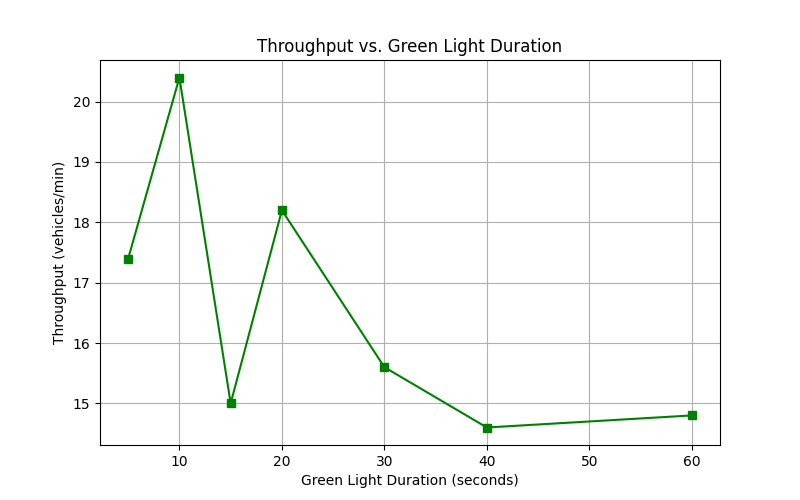
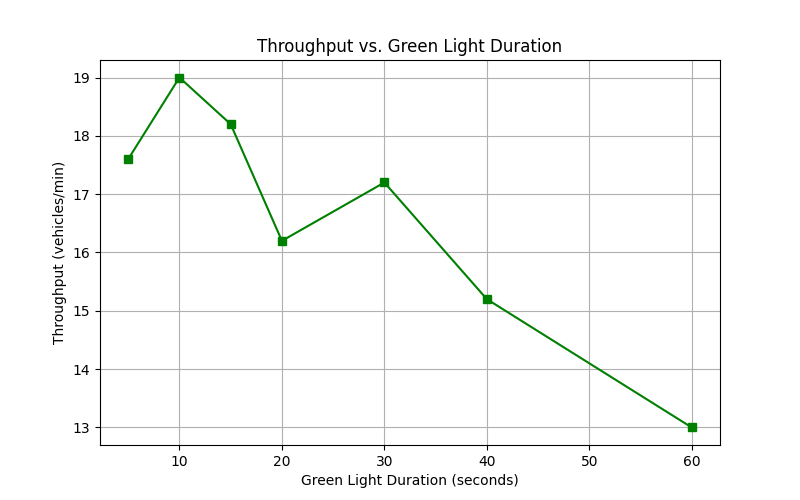
fine tuning turning logic and speeds to reduce collisions as low as possible

diff --git a/simulation/vehicle.py b/simulation/vehicle.py
@@ -55,6 +55,7 @@ class Trajectory:
             self.arc_center = (arc_start_pos[0] + self.right_vec[0] * self.R,
                                arc_start_pos[1] + self.right_vec[1] * self.R)
         elif turn == 'left':
+            self.straight_dist = 300.0
             self.R = 150.0
             self.arc_len = self.R * math.pi / 2
             arc_start_pos = (self.start_pos[0] + self.dir_vec[0] * self.straight_dist,
@@ -345,20 +346,20 @@ class Vehicle:
 
                 clearing_intersection = False
                 # If past or very close to the stop line and light is YELLOW/RED, speed up to clear
-                if light_state in ['YELLOW', 'RED'] and self.state[0] > self.trajectory.straight_dist - 45:
+                if light_state in ['YELLOW', 'RED'] and self.state[0] > 255.0:
                     clearing_intersection = True
 
                 # Reduce speed for turns
                 if self.turn != 'straight' and self.state[0] > self.trajectory.straight_dist - 50 and self.state[0] < self.trajectory.straight_dist + self.trajectory.arc_len:
                     if clearing_intersection:
-                        target_speed = self.max_speed * 1.5 # Go faster than normal to clear intersection
+                        target_speed = max(self.max_speed * 1.5, 30.0) # Go faster than normal to clear intersection
                     else:
                         if self.turn == 'right':
-                            target_speed = self.max_speed * 0.85
+                            target_speed = max(self.max_speed * 0.7, 20.0)
                         else:
-                            target_speed = self.max_speed * 0.6
+                            target_speed = max(self.max_speed * 0.9, 24.0)
                 elif clearing_intersection:
-                    target_speed = self.max_speed * 2.0
+                    target_speed = max(self.max_speed * 2.0, 25.0)
 
                 if v < target_speed:
                     if clearing_intersection:

diff --git a/main.py b/main.py
@@ -526,13 +526,19 @@ def main():
                                 pos2 = ov.get_world_pos()
                                 dx = pos2[0] - pos1[0]
                                 dy = pos2[1] - pos1[1]
-                                forward_dist = dx * dx_dir + dy * dy_dir
-                                if forward_dist > 0:
-                                    lateral_dist = abs(dx * rx + dy * ry)
-                                    if lateral_dist < 15.0:
-                                        d = forward_dist - (vehicle.length / 2) - (ov.length / 2)
-                                        if d > 0 and d < min_dist_ahead:
-                                            min_dist_ahead = d
+                                
+                                _, _, _, ov_rx, ov_ry = ov.trajectory.get_position_and_angle(ov.state[0])
+                                ov_dx_dir, ov_dy_dir = ov_ry, -ov_rx
+                                
+                                # Only follow cars heading in roughly the same direction (dot product > 0.5)
+                                if (dx_dir * ov_dx_dir + dy_dir * ov_dy_dir) > 0.5:
+                                    forward_dist = dx * dx_dir + dy * dy_dir
+                                    if forward_dist > 0:
+                                        lateral_dist = abs(dx * rx + dy * ry)
+                                        if lateral_dist < 15.0:
+                                            d = forward_dist - (vehicle.length / 2) - (ov.length / 2)
+                                            if d > 0 and d < min_dist_ahead:
+                                                min_dist_ahead = d
                                             
                     dist_ahead = min_dist_ahead if min_dist_ahead != float('inf') else None
                         

diff --git a/run_experiments.py b/run_experiments.py
@@ -60,13 +60,18 @@ def run_headless_sim(sim_time_limit, spawn_rate, green_time, dt=1.0/60.0):
                             pos2 = ov.get_world_pos()
                             dx = pos2[0] - pos1[0]
                             dy = pos2[1] - pos1[1]
-                            forward_dist = dx * dx_dir + dy * dy_dir
-                            if forward_dist > 0:
-                                lateral_dist = abs(dx * rx + dy * ry)
-                                if lateral_dist < 15.0:
-                                    d = forward_dist - (vehicle.length / 2) - (ov.length / 2)
-                                    if d > 0 and d < min_dist_ahead:
-                                        min_dist_ahead = d
+                            
+                            _, _, _, ov_rx, ov_ry = ov.trajectory.get_position_and_angle(ov.state[0])
+                            ov_dx_dir, ov_dy_dir = ov_ry, -ov_rx
+                            
+                            if (dx_dir * ov_dx_dir + dy_dir * ov_dy_dir) > 0.5:
+                                forward_dist = dx * dx_dir + dy * dy_dir
+                                if forward_dist > 0:
+                                    lateral_dist = abs(dx * rx + dy * ry)
+                                    if lateral_dist < 15.0:
+                                        d = forward_dist - (vehicle.length / 2) - (ov.length / 2)
+                                        if d > 0 and d < min_dist_ahead:
+                                            min_dist_ahead = d
                                         
                 dist_ahead = min_dist_ahead if min_dist_ahead != float('inf') else None
                     
